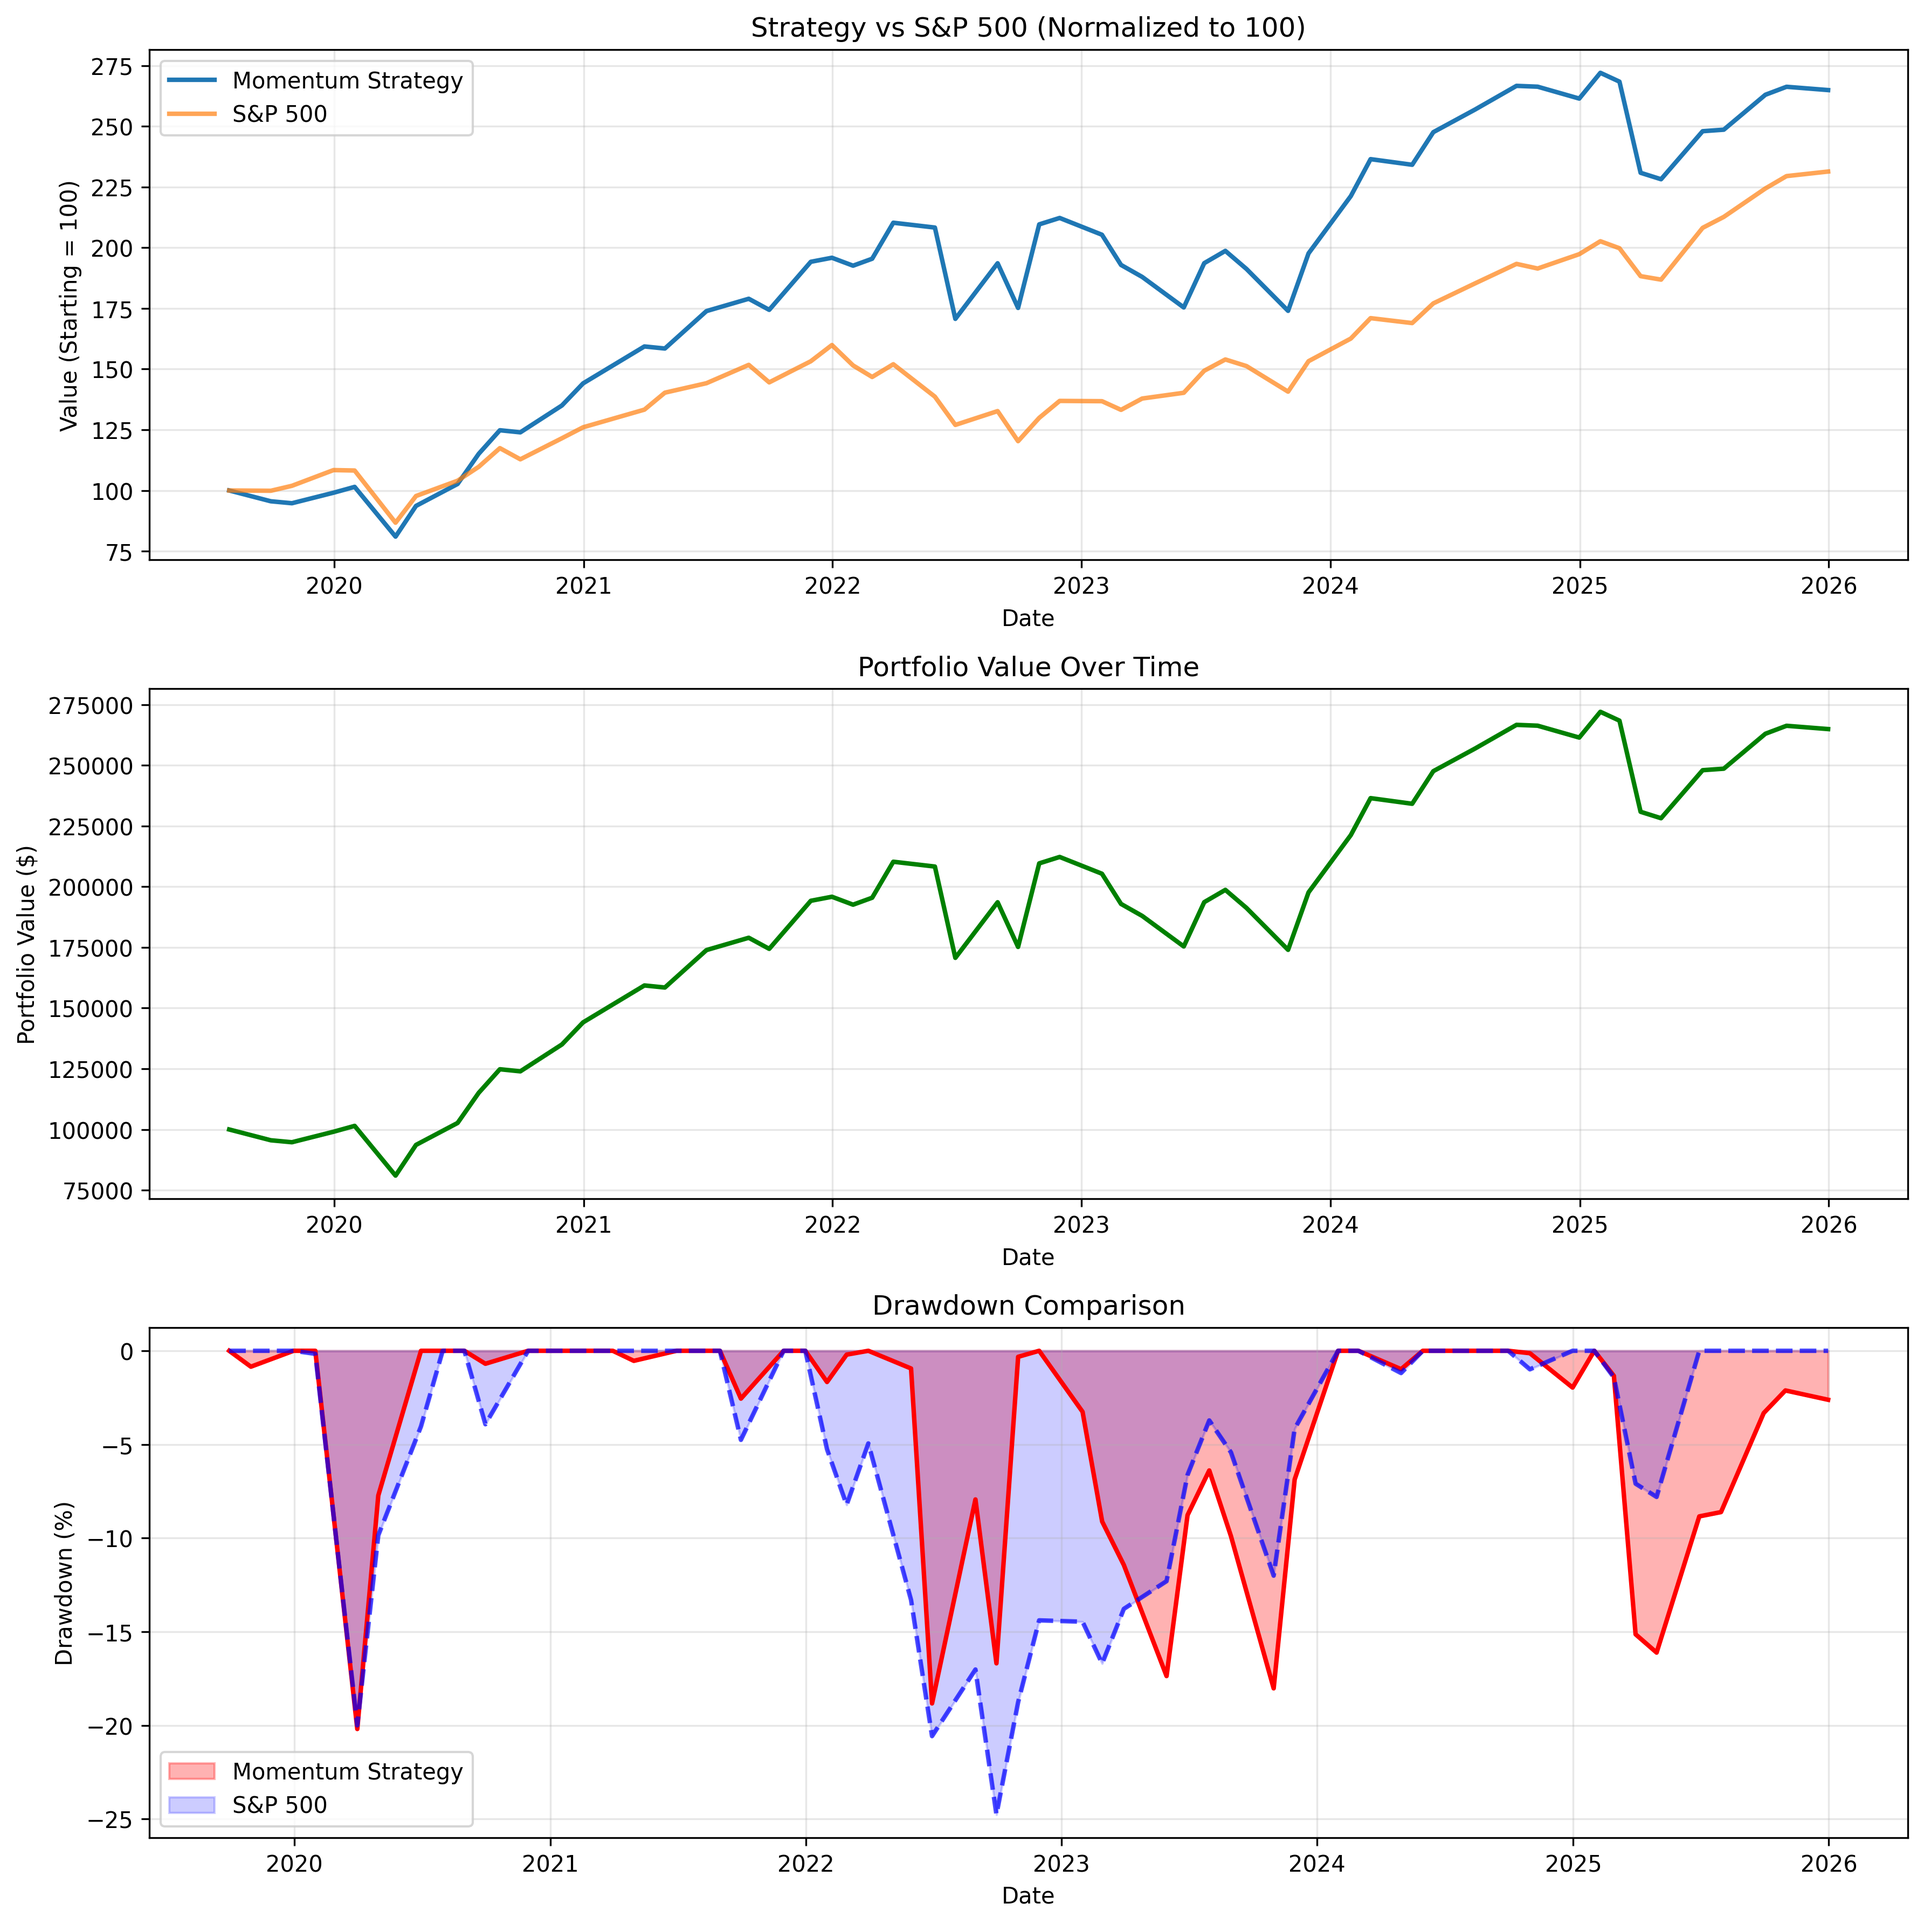
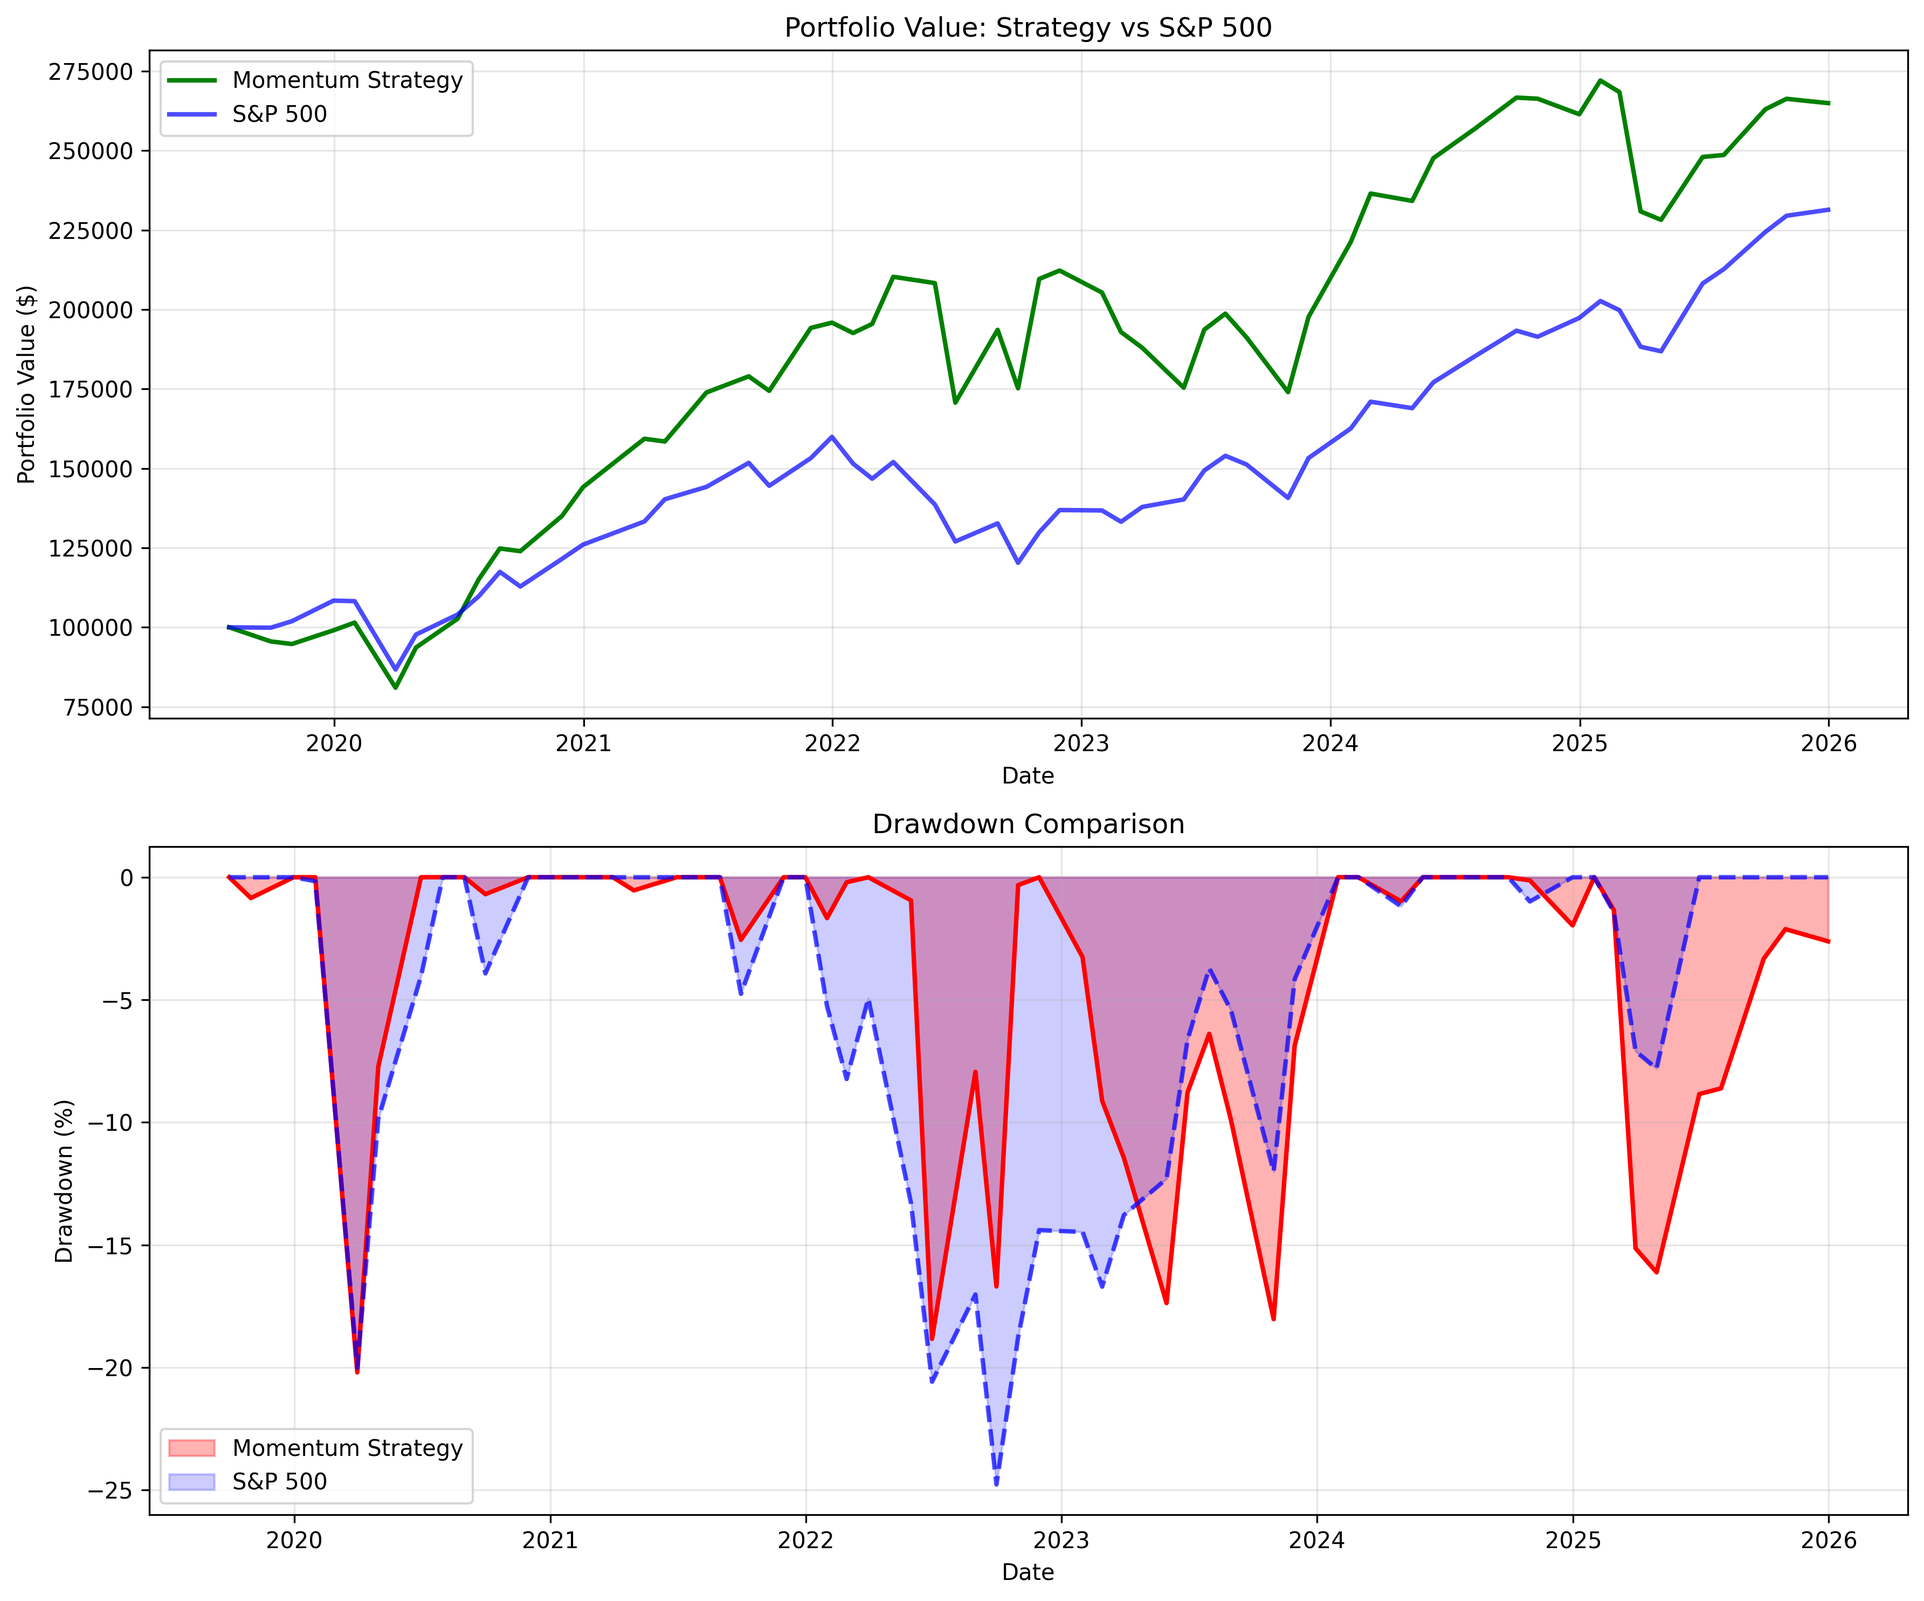
consolidate graphing function

diff --git a/src/backtester.py b/src/backtester.py
@@ -286,33 +286,28 @@ class BacktestEngine():
         return sp500
 
     def plot_results(self, portfolio_history: pd.DataFrame, filename='backtest_results.png'):
-        fig, (ax1, ax2, ax3) = plt.subplots(3, 1, figsize=(12, 12))
+        fig, (ax1, ax2) = plt.subplots(2, 1, figsize=(12, 10))
 
         # fetch S&P 500 benchmark
         start_date = portfolio_history.index[0]
         end_date = portfolio_history.index[-1]
         sp500 = self.fetch_sp500(start_date, end_date)
-
+        
         initial_portfolio_value = portfolio_history['value'].iloc[0]
-        portfolio_normalized = (portfolio_history['value'] / initial_portfolio_value) * 100
-
         sp500_aligned = sp500.reindex(portfolio_history.index, method='ffill')
-        sp500_normalized = (sp500_aligned / sp500_aligned.iloc[0]) * 100
+        sp500_scaled = (sp500_aligned / sp500_aligned.iloc[0]) * initial_portfolio_value
 
-        ax1.plot(portfolio_history.index, portfolio_normalized, label='Momentum Strategy', linewidth=2)
-        ax1.plot(portfolio_history.index, sp500_normalized, label='S&P 500', linewidth=2, alpha=0.7)
-        ax1.set_title('Strategy vs S&P 500 (Normalized to 100)')
+        ax1.plot(portfolio_history.index, portfolio_history['value'],
+                label='Momentum Strategy', linewidth=2, color='green')
+        ax1.plot(portfolio_history.index, sp500_scaled,
+                label='S&P 500', linewidth=2, alpha=0.7, color='blue')
+        ax1.set_title('Portfolio Value: Strategy vs S&P 500')
         ax1.set_xlabel('Date')
-        ax1.set_ylabel('Value (Starting = 100)')
+        ax1.set_ylabel('Portfolio Value ($)')
         ax1.legend()
         ax1.grid(True, alpha=0.3)
 
-        ax2.plot(portfolio_history.index, portfolio_history['value'], color='green', linewidth=2)
-        ax2.set_title('Portfolio Value Over Time')
-        ax2.set_xlabel('Date')
-        ax2.set_ylabel('Portfolio Value ($)')
-        ax2.grid(True, alpha=0.3)
-
+        # calculate & plot drawdowns
         portfolio_returns = portfolio_history['value'].pct_change().dropna()
         portfolio_cumulative = (1 + portfolio_returns).cumprod()
         portfolio_running_max = portfolio_cumulative.expanding().max()
@@ -322,27 +317,26 @@ class BacktestEngine():
         sp500_cumulative = (1 + sp500_returns).cumprod()
         sp500_running_max = sp500_cumulative.expanding().max()
         sp500_drawdown = (sp500_cumulative / sp500_running_max) - 1
-
-        ax3.fill_between(portfolio_drawdown.index, portfolio_drawdown * 100, 0,
+        ax2.fill_between(portfolio_drawdown.index, portfolio_drawdown * 100, 0,
                          alpha=0.3, color='red', label='Momentum Strategy')
-        ax3.plot(portfolio_drawdown.index, portfolio_drawdown * 100, color='red', linewidth=2)
+        ax2.plot(portfolio_drawdown.index, portfolio_drawdown * 100, color='red', linewidth=2)
 
-        ax3.fill_between(sp500_drawdown.index, sp500_drawdown * 100, 0,
+        ax2.fill_between(sp500_drawdown.index, sp500_drawdown * 100, 0,
                          alpha=0.2, color='blue', label='S&P 500')
-        ax3.plot(sp500_drawdown.index, sp500_drawdown * 100, color='blue',
+        ax2.plot(sp500_drawdown.index, sp500_drawdown * 100, color='blue',
                  linewidth=2, alpha=0.7, linestyle='--')
 
-        ax3.set_title('Drawdown Comparison')
-        ax3.set_xlabel('Date')
-        ax3.set_ylabel('Drawdown (%)')
-        ax3.legend()
-        ax3.grid(True, alpha=0.3)
+        ax2.set_title('Drawdown Comparison')
+        ax2.set_xlabel('Date')
+        ax2.set_ylabel('Drawdown (%)')
+        ax2.legend()
+        ax2.grid(True, alpha=0.3)
 
         plt.tight_layout()
 
+        # output
         output_path = os.path.join('outputs', filename)
         os.makedirs(os.path.dirname(output_path), exist_ok=True)
-
         fig.savefig(output_path, dpi=300, bbox_inches='tight')
         print(f"Plot saved to {output_path}")
         plt.show()

diff --git a/main.py b/main.py
@@ -4,22 +4,22 @@ import pstats
 from src.strategy import MomentumStrategy
 from src.backtester import BacktestEngine
 
-def execute():
-    initial_capital = 100_000
-    lookback = 12
-    top_n = 20
+def execute(capital: int = 100_000, lookback: int = 12, top_n: int = 20):
     strategy = MomentumStrategy()
     engine = BacktestEngine(
         strategy=strategy,
         start_date='2018-01-01',     
-        cash=initial_capital,                
+        cash=capital,                
         lookback=lookback,              
         top_n=top_n,                    
         skip_months=1               
     )
+    
     results = engine.backtest()
-    print(f"\nFinal Portfolio Value: ${results['history']['value'].iloc[-1]:,.2f}\n")
-    print(f"Initial Capital: ${initial_capital:,}\n")
+    
+    print()
+    print(f"Initial Capital: ${capital:,}\n")
+    print(f"Final Portfolio Value: ${results['history']['value'].iloc[-1]:,.2f}\n")
     print("Metrics:")
     for key, value in results['metrics'].items():
         if key == 'num_periods':
@@ -31,11 +31,13 @@ def execute():
         else:
             print(f"  {key}: {value:.2%}")
     print()
+    
     history = results['history']
     engine.plot_results(portfolio_history=history)
-    print()
     
+    print()
     print("============= Profile Results =============")
+    print()
 
 if __name__ == "__main__":
     profiler = cProfile.Profile()
